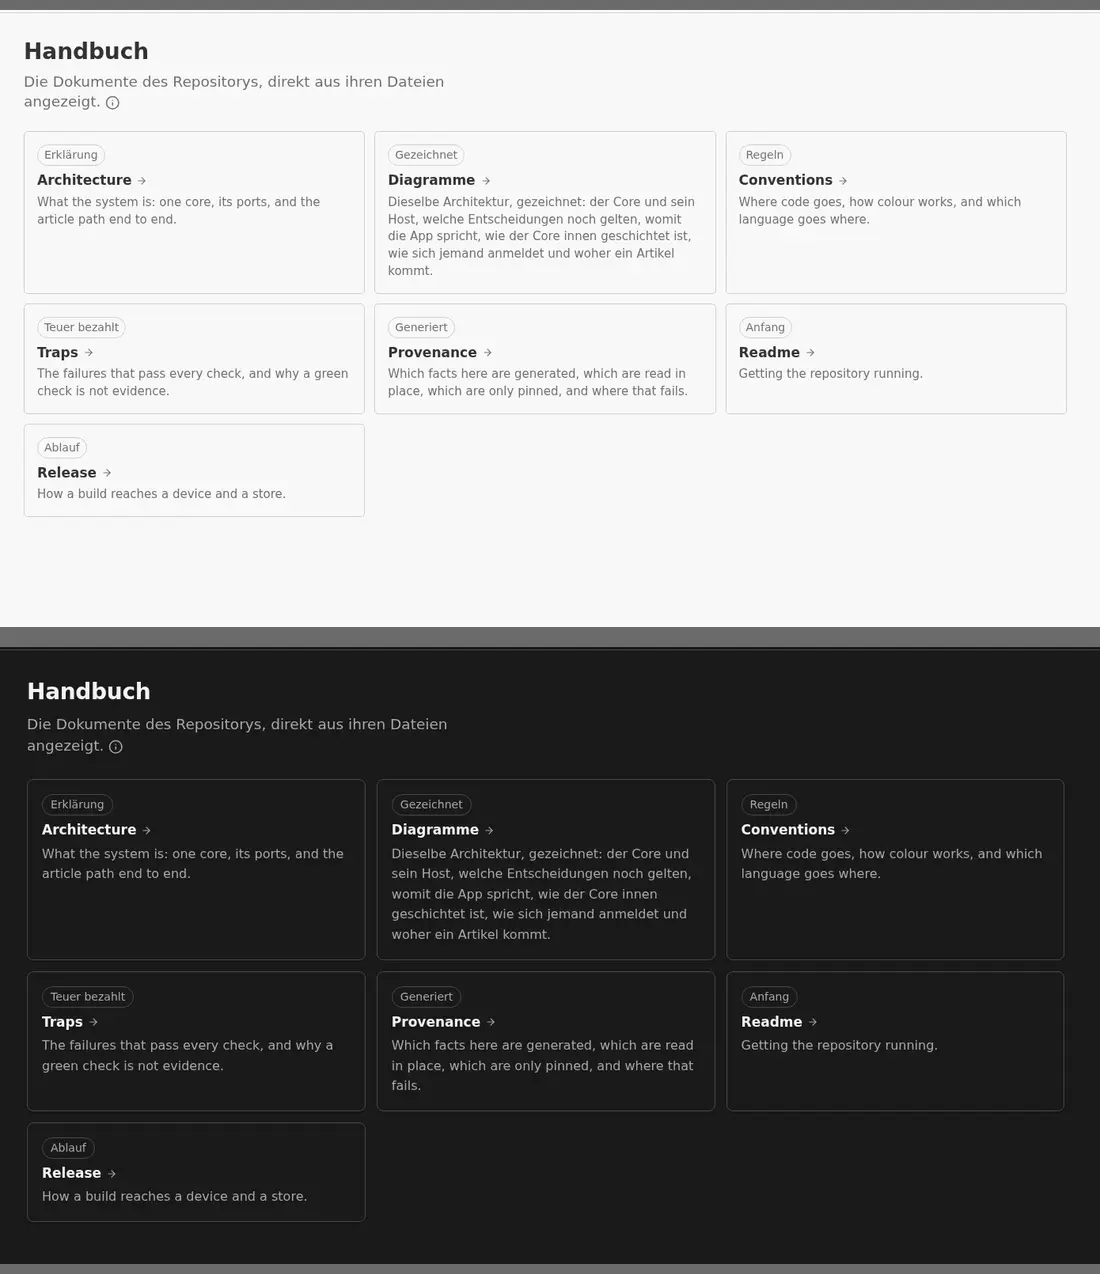
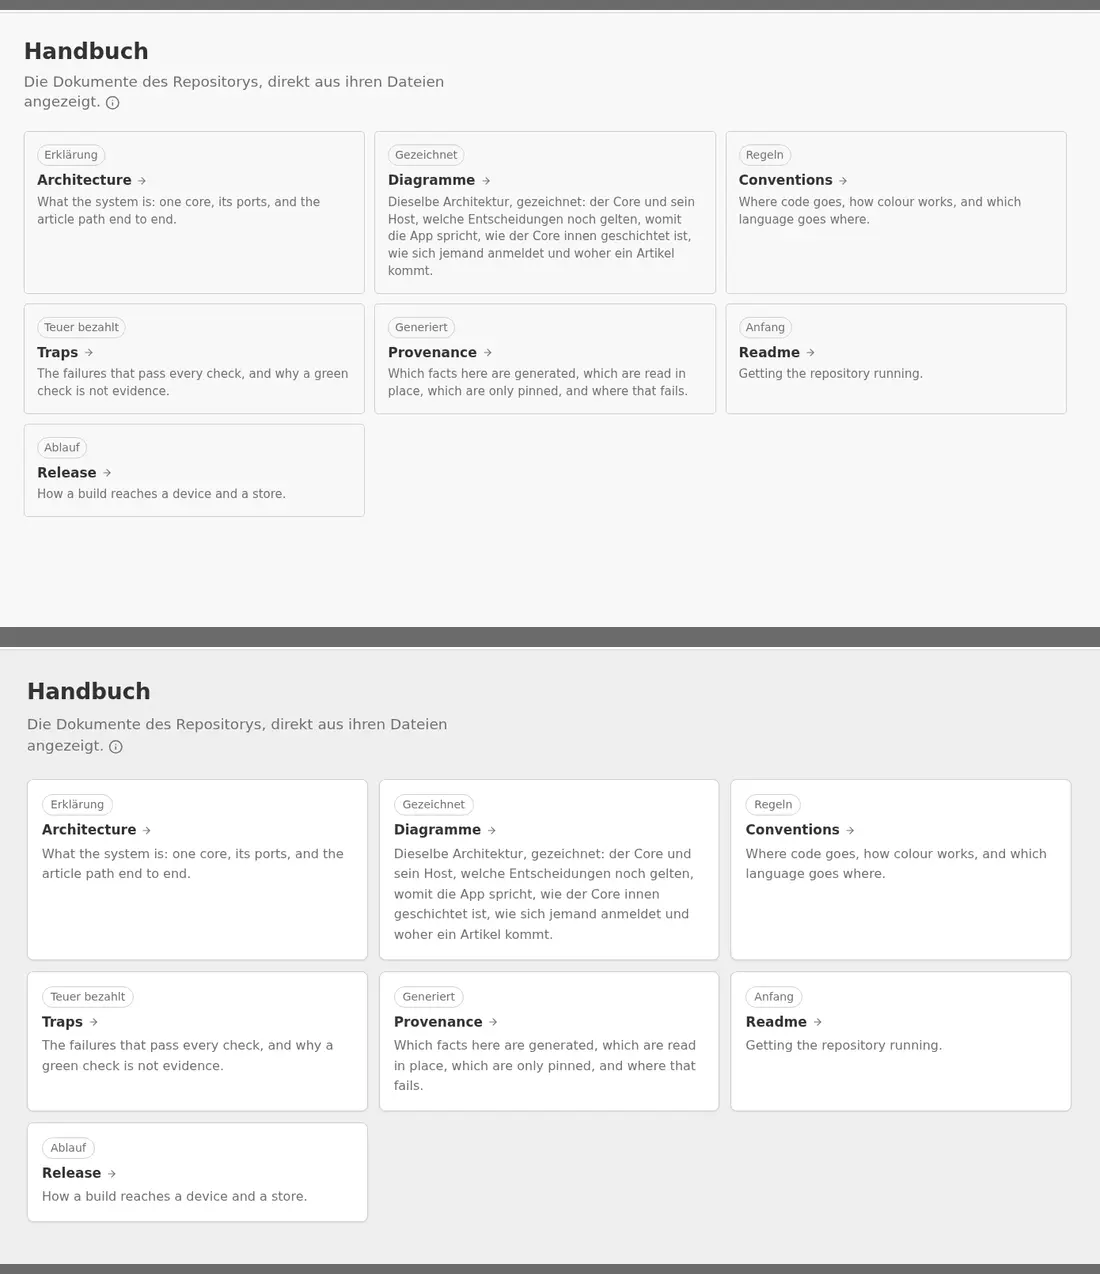
feat(workbench): elevation, and a page one step below the canvas
The site read as a schematic because nothing on it was raised and nothing on
it had air. Two causes, and neither is the framework: it already runs the
stack a "modern, minimal, owned" choice would pick anyway (Radix, Tailwind v4,
CVA), so what is missing is a value the tokens do not carry.

Elevation. The token package has no shadow scale, and the floating primitives
reached for Tailwind's stock shadow-2xl — a black at 25%, which on the dark
scheme's #1a1a1a canvas is nothing at all. Four steps, two shadows each: the
tight one is the contact a surface has with what it rests on, the soft one is
the room around it. The dark alphas are roughly twice the light ones, because
a shadow on a near-black surface has no darkness left to spend.

Page depth. `--color-page` is a step below `canvas`, derived with color-mix on
the tokens themselves, so a card on it reads as raised in both schemes while
`canvas`, `surface` and `stroke` stay exactly where they are. Also a radius
scale (rounded-lg and rounded-xl had no value here and fell through to
Tailwind's defaults, which is why a dialog was 8px while a button was 5px),
space and type off editor density, and a card grid whose gap is no longer
smaller than the padding inside the cards.

Every colour is derived from a token, so styles.test.ts "writes no colour
value of its own" stays green — which is the point. The palette is shared with
the app and with the WordPress CMS, and a literal here would be a colour
[…]

diff --git a/apps/workbench/src/styles/palette.css b/apps/workbench/src/styles/palette.css
@@ -33,9 +33,26 @@
 /* The page sits one step below `canvas`, and the cards on it one step above, so
    that a card reads as raised in both schemes without either token moving. The
    percentage is the one number in this file that is a judgement rather than a
-   derivation, and it is the whole of the effect. */
-@theme {
+   derivation, and it is the whole of the effect.
+
+   **Written as a plain `:root` rule and not as `@theme`, and that is measured
+   rather than preferred.** `@theme` is where a Tailwind token is registered, and
+   this one is a `color-mix` over two other tokens. Tailwind v4 did not emit it:
+   `--color-page` computed empty in the light scheme, `bg-page` painted
+   `rgba(0,0,0,0)`, and the page fell back to the body's white — so the one
+   change this file exists for was invisible in the light scheme and working in
+   the dark one, because the dark value below is an ordinary rule and did emit.
+   A green build and a passing test said nothing; the browser did.
+
+   So the variable is declared here and the utility is written out by hand below,
+   the same way the elevation steps are. It costs a line and it is the only form
+   of this that provably reaches the screen. */
+:root {
   --color-page: color-mix(in oklab, var(--color-canvas) 93%, var(--color-on-canvas));
+}
+
+.bg-page {
+  background-color: var(--color-page);
 }
 
 :root.dark {
